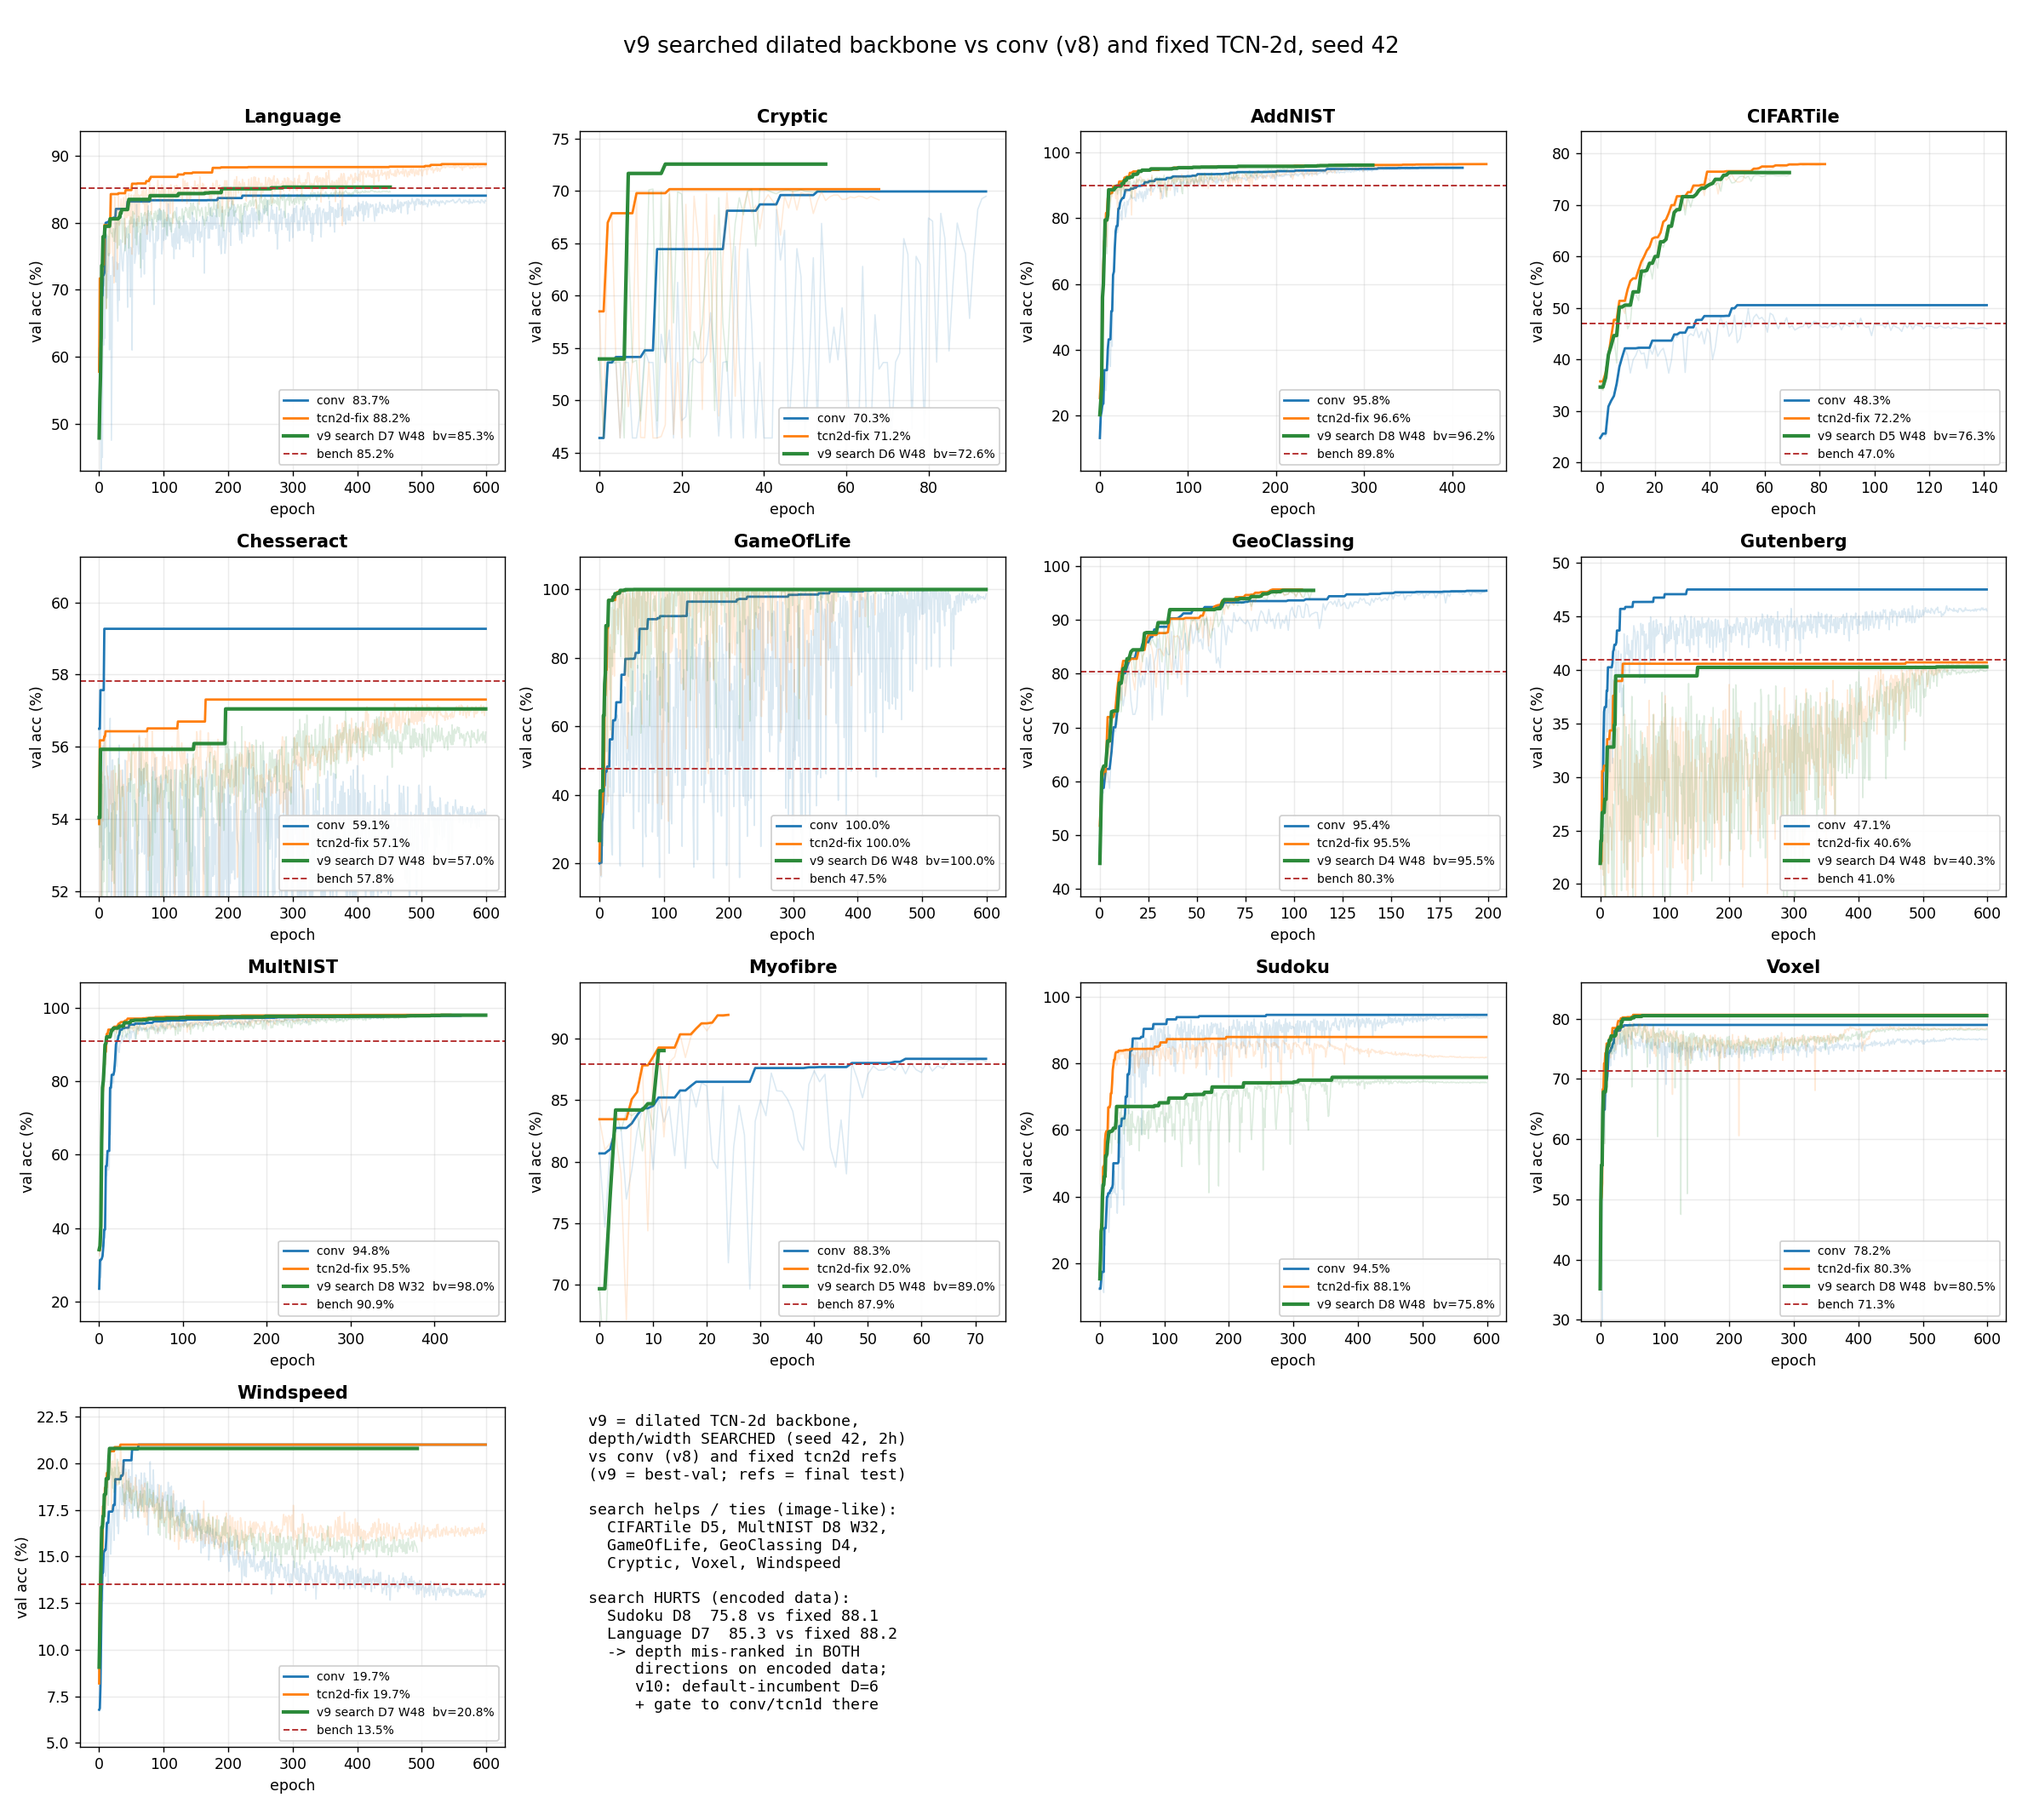
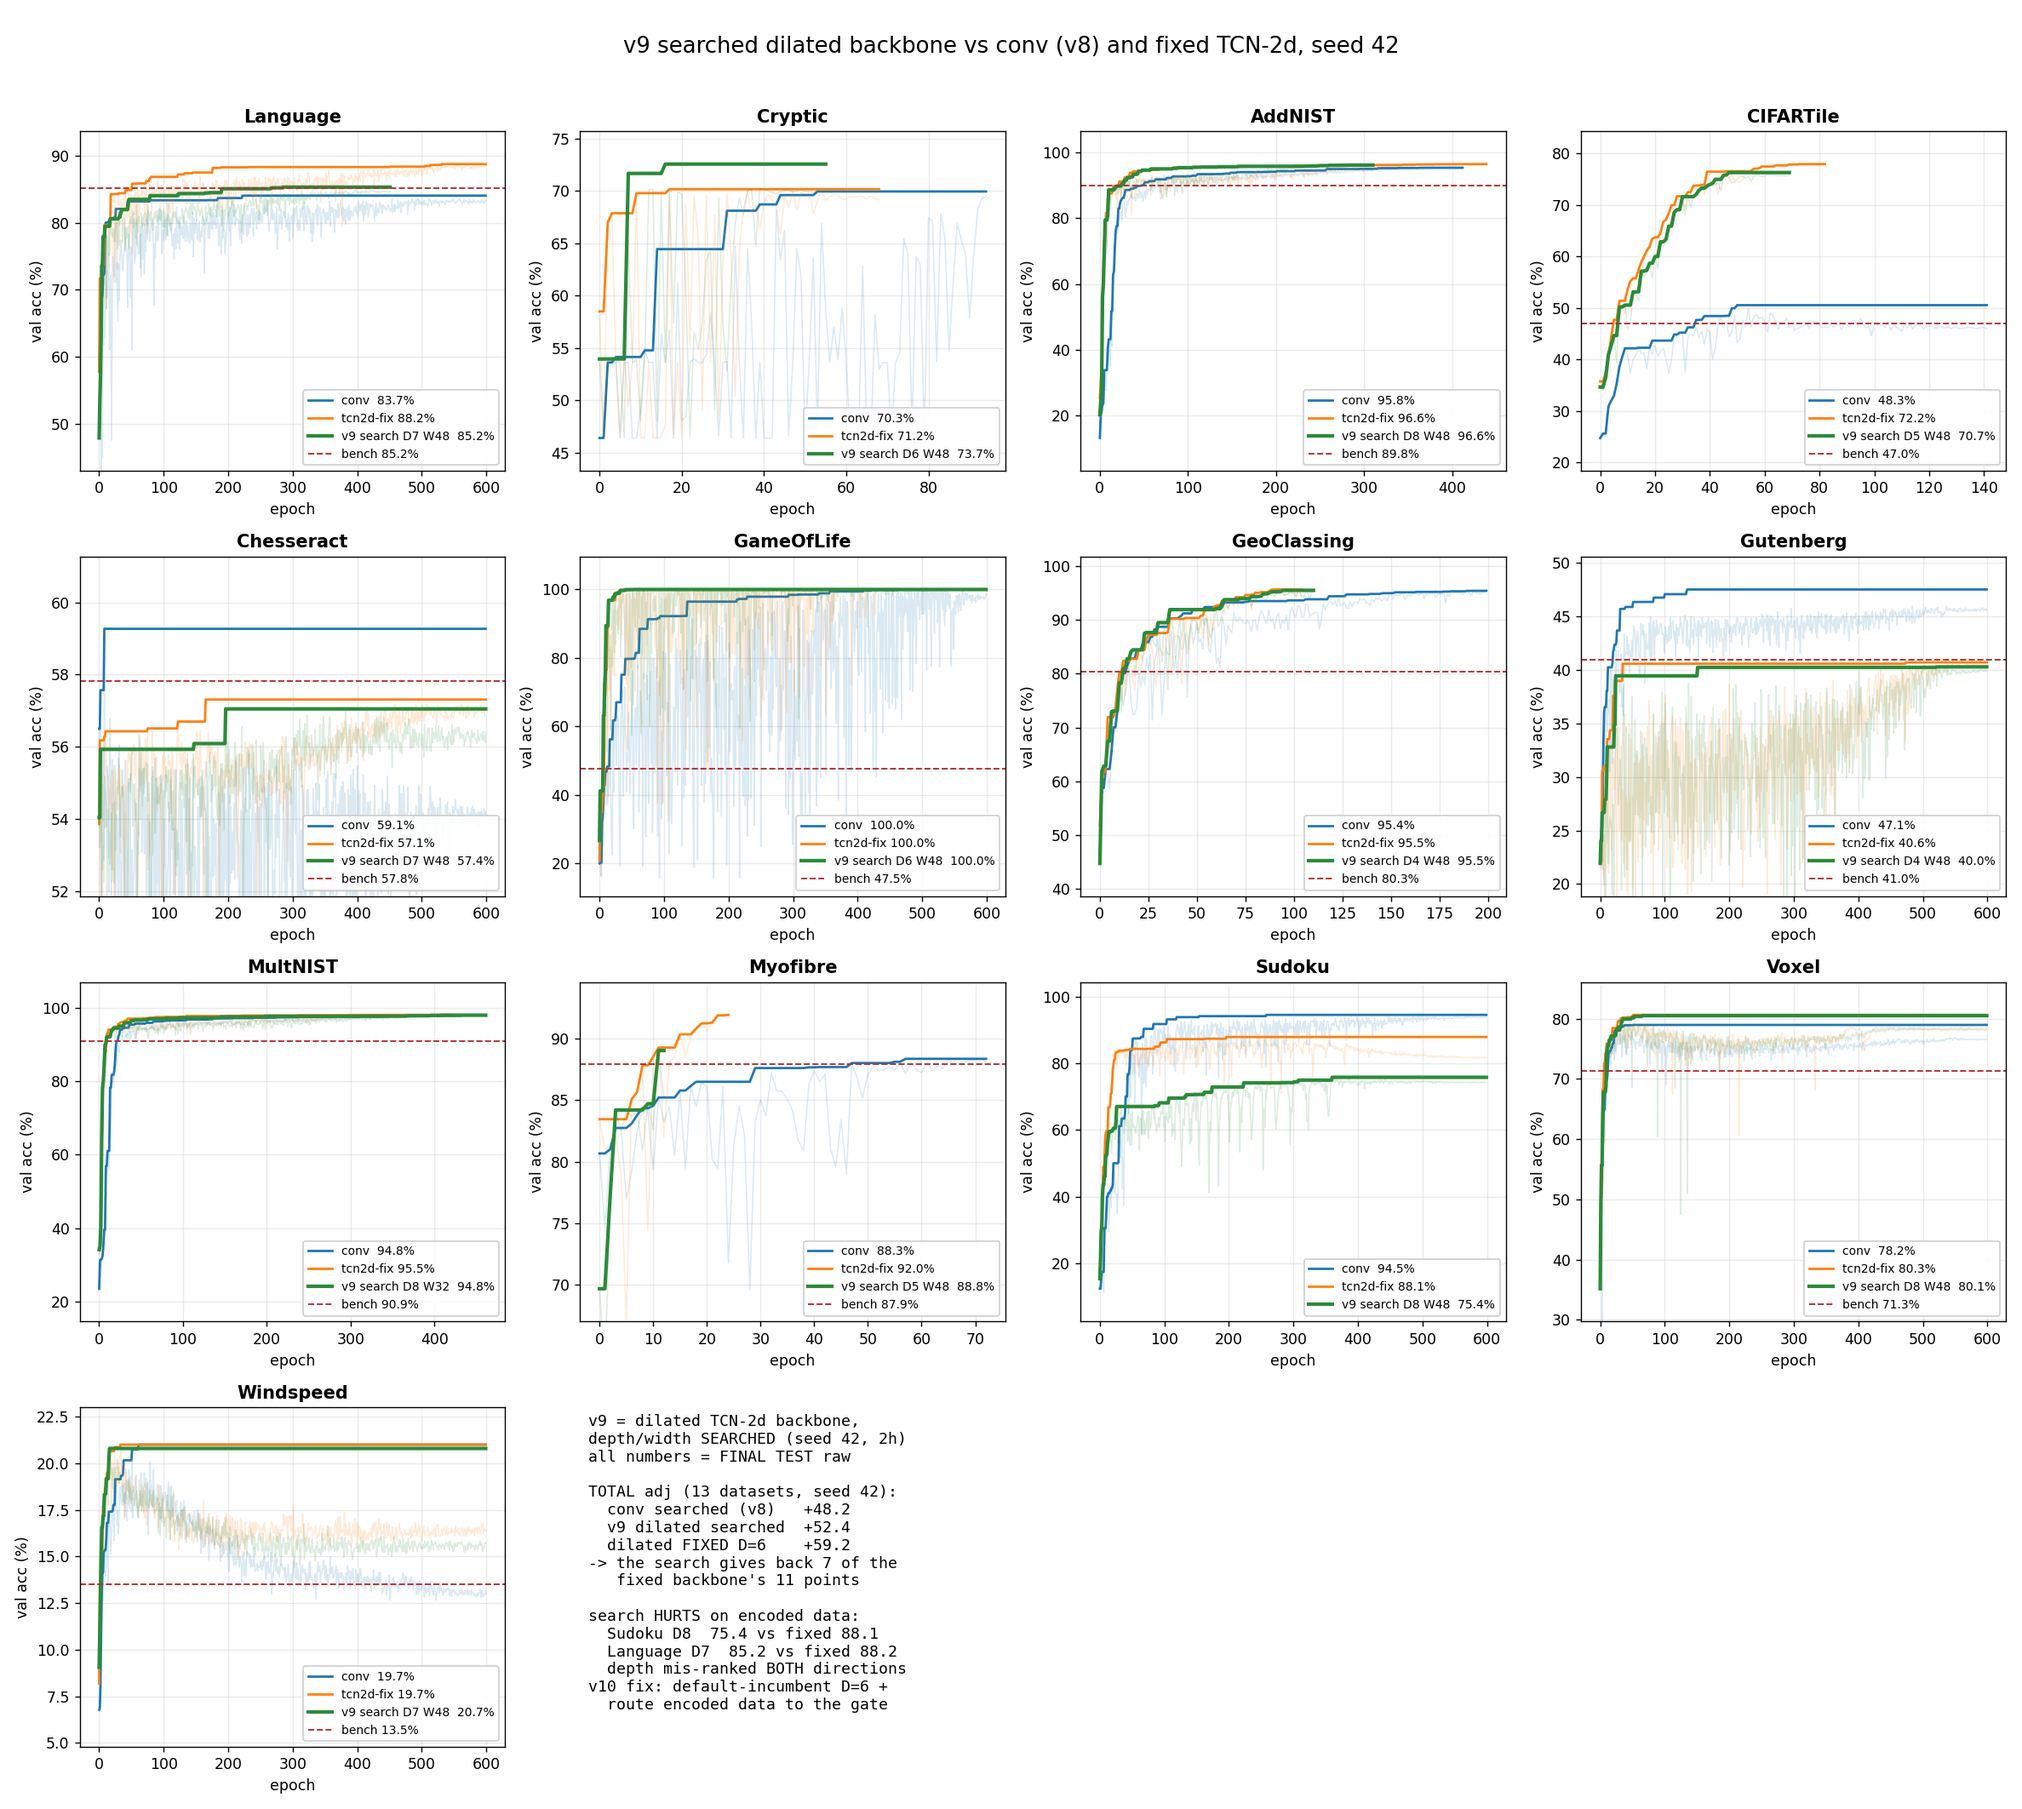
v9 grid updated with final seed-42 test scores and totals (conv +48.2, v9 +52.4, fixed +59.2)

diff --git a/dev/plot_v9_grid.py b/dev/plot_v9_grid.py
@@ -19,21 +19,22 @@ OUT.mkdir(parents=True, exist_ok=True)
 
 CONV = "#1f77b4"; T2 = "#ff7f0e"; V9 = "#2c8a3a"; BENCHC = "#b53030"
 
-# name, codename, benchmark, conv test raw, tcn2d-fixed test raw, v9 arch
+# name, codename, benchmark, conv test raw, tcn2d-fixed test raw, v9 arch,
+# v9 FINAL test raw (seed-42 run complete, total +52.4)
 DATASETS = [
-    ("Language",    "LaMelo",    85.200, 83.68, 88.24, "D7 W48"),
-    ("Cryptic",     "Cryptic",    0.000, 70.27, 71.18, "D6 W48"),
-    ("AddNIST",     "Adaline",   89.850, 95.82, 96.62, "D8 W48"),
-    ("CIFARTile",   "Caitie",    47.008, 48.30, 72.20, "D5 W48"),
-    ("Chesseract",  "Chester",   57.826, 59.10, 57.08, "D7 W48"),
-    ("GameOfLife",  "conway",    47.530, 99.96, 99.99, "D6 W48"),
-    ("GeoClassing", "Sadie",     80.330, 95.38, 95.49, "D4 W48"),
-    ("Gutenberg",   "Gutenberg", 40.980, 47.08, 40.62, "D4 W48"),
-    ("MultNIST",    "Mateo",     90.870, 94.76, 95.52, "D8 W32"),
-    ("Myofibre",    "Myopia",    87.928, 88.33, 91.96, "D5 W48"),
-    ("Sudoku",      "Sokoto",     0.000, 94.46, 88.14, "D8 W48"),
-    ("Voxel",       "Volga",     71.350, 78.16, 80.33, "D8 W48"),
-    ("Windspeed",   "windspeed", 13.492, 19.74, 19.74, "D7 W48"),
+    ("Language",    "LaMelo",    85.200, 83.68, 88.24, "D7 W48", 85.21),
+    ("Cryptic",     "Cryptic",    0.000, 70.27, 71.18, "D6 W48", 73.70),
+    ("AddNIST",     "Adaline",   89.850, 95.82, 96.62, "D8 W48", 96.56),
+    ("CIFARTile",   "Caitie",    47.008, 48.30, 72.20, "D5 W48", 70.65),
+    ("Chesseract",  "Chester",   57.826, 59.10, 57.08, "D7 W48", 57.42),
+    ("GameOfLife",  "conway",    47.530, 99.96, 99.99, "D6 W48", 99.99),
+    ("GeoClassing", "Sadie",     80.330, 95.38, 95.49, "D4 W48", 95.51),
+    ("Gutenberg",   "Gutenberg", 40.980, 47.08, 40.62, "D4 W48", 40.03),
+    ("MultNIST",    "Mateo",     90.870, 94.76, 95.52, "D8 W32", 94.80),
+    ("Myofibre",    "Myopia",    87.928, 88.33, 91.96, "D5 W48", 88.78),
+    ("Sudoku",      "Sokoto",     0.000, 94.46, 88.14, "D8 W48", 75.44),
+    ("Voxel",       "Volga",     71.350, 78.16, 80.33, "D8 W48", 80.14),
+    ("Windspeed",   "windspeed", 13.492, 19.74, 19.74, "D7 W48", 20.73),
 ]
 
 
@@ -50,22 +51,20 @@ def load(p):
 fig, axes = plt.subplots(4, 4, figsize=(19, 17), squeeze=False)
 flat = axes.flatten()
 
-for ax, (name, code, bench, conv_raw, t2_raw, arch) in zip(flat, DATASETS):
+for ax, (name, code, bench, conv_raw, t2_raw, arch, v9_raw) in zip(flat, DATASETS):
     series = [
         ("conv (v8)", REPO / f"dev/logs/tier2a_p1_v8/p1v8_s42/{code}.csv",
          CONV, f"conv  {conv_raw:.1f}%", 1.6),
         ("tcn2d fixed", REPO / f"dev/logs/tcn_probe/tcn2d_{name}_s42/{code}.csv",
          T2, f"tcn2d-fix {t2_raw:.1f}%", 1.6),
         ("v9", REPO / f"dev/logs/tier2a_p1_v9/p1v9_s42/{code}.csv",
-         V9, None, 2.4),
+         V9, f"v9 search {arch}  {v9_raw:.1f}%", 2.4),
     ]
     lo, hi = 100.0, 0.0
     for key, path, c, lab, lw in series:
         if not path.exists():
             continue
         ep, val, best = load(path)
-        if key == "v9":
-            lab = f"v9 search {arch}  bv={best.max():.1f}%"
         ax.plot(ep, val, color=c, alpha=0.16, linewidth=0.9)
         ax.plot(ep, best, color=c, linewidth=lw, label=lab)
         lo, hi = min(lo, float(best.min())), max(hi, float(best.max()))
@@ -85,19 +84,19 @@ ax = flat[len(DATASETS)]; ax.axis("off")
 ax.text(0.02, 0.98,
         "v9 = dilated TCN-2d backbone,\n"
         "depth/width SEARCHED (seed 42, 2h)\n"
-        "vs conv (v8) and fixed tcn2d refs\n"
-        "(v9 = best-val; refs = final test)\n\n"
-        "search helps / ties (image-like):\n"
-        "  CIFARTile D5, MultNIST D8 W32,\n"
-        "  GameOfLife, GeoClassing D4,\n"
-        "  Cryptic, Voxel, Windspeed\n\n"
-        "search HURTS (encoded data):\n"
-        "  Sudoku D8  75.8 vs fixed 88.1\n"
-        "  Language D7  85.3 vs fixed 88.2\n"
-        "  -> depth mis-ranked in BOTH\n"
-        "     directions on encoded data;\n"
-        "     v10: default-incumbent D=6\n"
-        "     + gate to conv/tcn1d there",
+        "all numbers = FINAL TEST raw\n\n"
+        "TOTAL adj (13 datasets, seed 42):\n"
+        "  conv searched (v8)   +48.2\n"
+        "  v9 dilated searched  +52.4\n"
+        "  dilated FIXED D=6    +59.2\n"
+        "-> the search gives back 7 of the\n"
+        "   fixed backbone's 11 points\n\n"
+        "search HURTS on encoded data:\n"
+        "  Sudoku D8  75.4 vs fixed 88.1\n"
+        "  Language D7  85.2 vs fixed 88.2\n"
+        "  depth mis-ranked BOTH directions\n"
+        "v10 fix: default-incumbent D=6 +\n"
+        "  route encoded data to the gate",
         transform=ax.transAxes, fontsize=10.5, va="top", family="monospace")
 for j in range(len(DATASETS) + 1, len(flat)):
     flat[j].axis("off")
